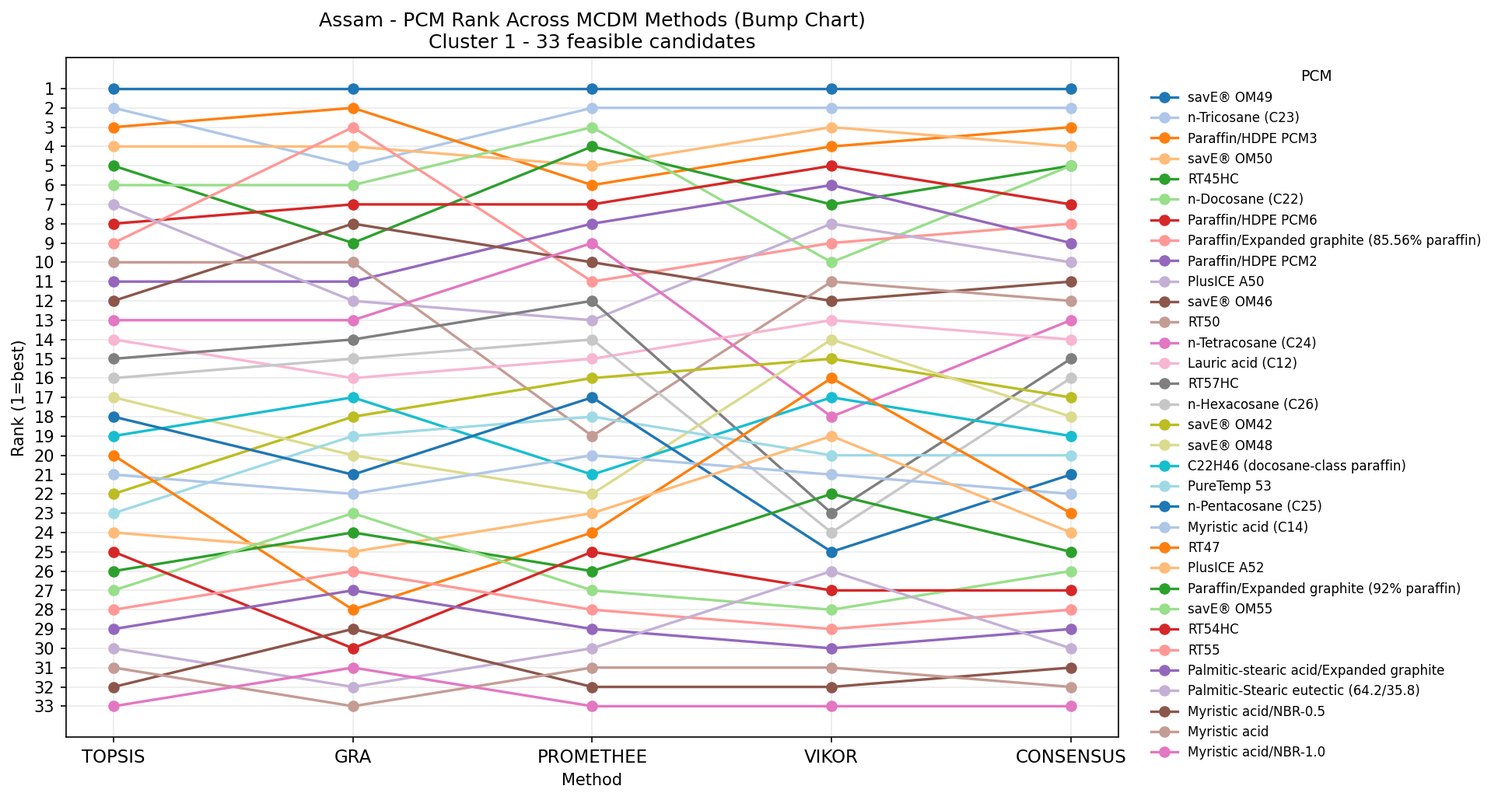
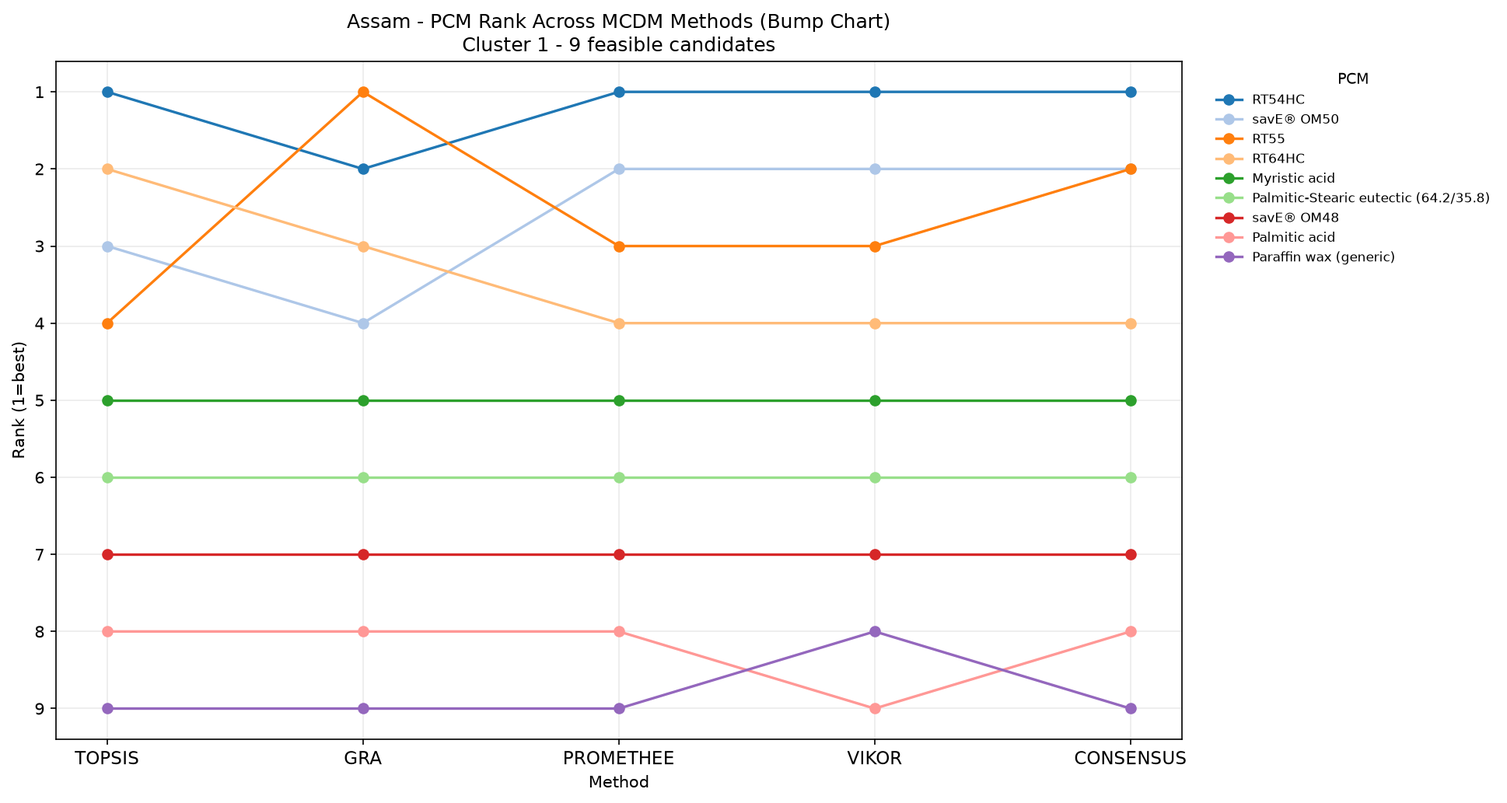
chore(plots): update Assam Cluster 1 MCDM bump chart from latest run

diff --git a/public/plots/assam/07_bump_chart_ranks_cluster_1.html b/public/plots/assam/07_bump_chart_ranks_cluster_1.html
@@ -6,6 +6,6 @@
 </head>
 <body>
     <div style="height:550px; width:100%;">                        <script>window.PlotlyConfig = {MathJaxConfig: 'local'};</script>
-        <script charset="utf-8" src="https://cdn.plot.ly/plotly-4.1.1.min.js" integrity="sha256-O24V1F27f8pb0glCkelh3cVHLNiHAJ5gCaVtq2aNch8=" crossorigin="anonymous"></script>                <div id="e0a0b864-5300-42bf-b452-9a20157ea065" class="plotly-graph-div" style="height:100%; width:100%;"></div>            <script>                window.PLOTLYENV=window.PLOTLYENV || {};                                if (document.getElementById("e0a0b864-5300-42bf-b452-9a20157ea065")) {                    Plotly.newPlot(                        "e0a0b864-5300-42bf-b452-9a20157ea065",                        [{"hovertemplate":"Name=savE® OM49\u003cbr\u003eMethod=%{x}\u003cbr\u003eRank=%{y}\u003cextra\u003e\u003c\u002fextra\u003e","legendgroup":"savE® OM49","line":{"color":"#FD3216","dash":"solid"},"marker":{"symbol":"circle"},"mode":"lines+markers","name":"savE® OM49","orientation":"v","showlegend":true,"x":["TOPSIS","GRA","PROMETHEE","VIKOR","CONSENSUS"],"xaxis":"x","y":{"dtype":"i1","bdata":"AQEBAQE="},"yaxis":"y","type":"scatter"},{"hovertemplate":"Name=n-Tricosane (C23)\u003cbr\u003eMethod=%{x}\u003cbr\u003eRank=%{y}\u003cextra\u003e\u003c\u002fextra\u003e","legendgroup":"n-Tricosane (C23)","line":{"color":"#00FE35","dash":"solid"},"marker":{"symbol":"circle"},"mode":"lines+markers","name":"n-Tricosane (C23)","orientation":"v","showlegend":true,"x":["TOPSIS","GRA","PROMETHEE","VIKOR","CONSENSUS"],"xaxis":"x","y":{"dtype":"i1","bdata":"AgUCAgI="},"yaxis":"y","type":"scatter"},{"hovertemplate":"Name=Paraffin\u002fHDPE PCM3\u003cbr\u003eMethod=%{x}\u003cbr\u003eRank=%{y}\u003cextra\u003e\u003c\u002fextra\u003e","legendgroup":"Paraffin\u002fHDPE PCM3","line":{"color":"#6A76FC","dash":"solid"},"marker":{"symbol":"circle"},"mode":"lines+markers","name":"Paraffin\u002fHDPE PCM3","orientation":"v","showlegend":true,"x":["TOPSIS","GRA","PROMETHEE","VIKOR","CONSENSUS"],"xaxis":"x","y":{"dtype":"i1","bdata":"AwIGBAM="},"yaxis":"y","type":"scatter"},{"hovertemplate":"Name=savE® OM50\u003cbr\u003eMethod=%{x}\u003cbr\u003eRank=%{y}\u003cextra\u003e\u003c\u002fextra\u003e","legendgroup":"savE® OM50","line":{"color":"#FED4C4","dash":"solid"},"marker":{"symbol":"circle"},"mode":"lines+markers","name":"savE® OM50","orientation":"v","showlegend":true,"x":["TOPSIS","GRA","PROMETHEE","VIKOR","CONSENSUS"],"xaxis":"x","y":{"dtype":"i1","bdata":"BAQFAwQ="},"yaxis":"y","type":"scatter"},{"hovertemplate":"Name=RT45HC\u003cbr\u003eMethod=%{x}\u003cbr\u003eRank=%{y}\u003cextra\u003e\u003c\u002fextra\u003e","legendgroup":"RT45HC","line":{"color":"#FE00CE","dash":"solid"},"marker":{"symbol":"circle"},"mode":"lines+markers","name":"RT45HC","orientation":"v","showlegend":true,"x":["TOPSIS","GRA","PROMETHEE","VIKOR","CONSENSUS"],"xaxis":"x","y":{"dtype":"i1","bdata":"BQkEBwU="},"yaxis":"y","type":"scatter"},{"hovertemplate":"Name=n-Docosane (C22)\u003cbr\u003eMethod=%{x}\u003cbr\u003eRank=%{y}\u003cextra\u003e\u003c\u002fextra\u003e","legendgroup":"n-Docosane (C22)","line":{"color":"#0DF9FF","dash":"solid"},"marker":{"symbol":"circle"},"mode":"lines+markers","name":"n-Docosane (C22)","orientation":"v","showlegend":true,"x":["TOPSIS","GRA","PROMETHEE","VIKOR","CONSENSUS"],"xaxis":"x","y":{"dtype":"i1","bdata":"BgYDCgU="},"yaxis":"y","type":"scatter"},{"hovertemplate":"Name=Paraffin\u002fHDPE PCM6\u003cbr\u003eMethod=%{x}\u003cbr\u003eRank=%{y}\u003cextra\u003e\u003c\u002fextra\u003e","legendgroup":"Paraffin\u002fHDPE PCM6","line":{"color":"#F6F926","dash":"solid"},"marker":{"symbol":"circle"},"mode":"lines+markers","name":"Paraffin\u002fHDPE PCM6","orientation":"v","showlegend":true,"x":["TOPSIS","GRA","PROMETHEE","VIKOR","CONSENSUS"],"xaxis":"x","y":{"dtype":"i1","bdata":"CAcHBQc="},"yaxis":"y","type":"scatter"},{"hovertemplate":"Name=Paraffin\u002fExpanded graphite (85.56% paraffin)\u003cbr\u003eMethod=%{x}\u003cbr\u003eRank=%{y}\u003cextra\u003e\u003c\u002fextra\u003e","legendgroup":"Paraffin\u002fExpanded graphite (85.56% paraffin)","line":{"color":"#FF9616","dash":"solid"},"marker":{"symbol":"circle"},"mode":"lines+markers","name":"Paraffin\u002fExpanded graphite (85.56% paraffin)","orientation":"v","showlegend":true,"x":["TOPSIS","GRA","PROMETHEE","VIKOR","CONSENSUS"],"xaxis":"x","y":{"dtype":"i1","bdata":"CQMLCQg="},"yaxis":"y","type":"scatter"},{"hovertemplate":"Name=Paraffin\u002fHDPE PCM2\u003cbr\u003eMethod=%{x}\u003cbr\u003eRank=%{y}\u003cextra\u003e\u003c\u002fextra\u003e","legendgroup":"Paraffin\u002fHDPE PCM2","line":{"color":"#479B55","dash":"solid"},"marker":{"symbol":"circle"},"mode":"lines+markers","name":"Paraffin\u002fHDPE PCM2","orientation":"v","showlegend":true,"x":["TOPSIS","GRA","PROMETHEE","VIKOR","CONSENSUS"],"xaxis":"x","y":{"dtype":"i1","bdata":"CwsIBgk="},"yaxis":"y","type":"scatter"},{"hovertemplate":"Name=PlusICE A50\u003cbr\u003eMethod=%{x}\u003cbr\u003eRank=%{y}\u003cextra\u003e\u003c\u002fextra\u003e","legendgroup":"PlusICE A50","line":{"color":"#EEA6FB","dash":"solid"},"marker":{"symbol":"circle"},"mode":"lines+markers","name":"PlusICE A50","orientation":"v","showlegend":true,"x":["TOPSIS","GRA","PROMETHEE","VIKOR","CONSENSUS"],"xaxis":"x","y":{"dtype":"i1","bdata":"BwwNCAo="},"yaxis":"y","type":"scatter"},{"hovertemplate":"Name=savE® OM46\u003cbr\u003eMethod=%{x}\u003cbr\u003eRank=%{y}\u003cextra\u003e\u003c\u002fextra\u003e","legendgroup":"savE® OM46","line":{"color":"#DC587D","dash":"solid"},"marker":{"symbol":"circle"},"mode":"lines+markers","name":"savE® OM46","orientation":"v","showlegend":true,"x":["TOPSIS","GRA","PROMETHEE","VIKOR","CONSENSUS"],"xaxis":"x","y":{"dtype":"i1","bdata":"DAgKDAs="},"yaxis":"y","type":"scatter"},{"hovertemplate":"Name=RT50\u003cbr\u003eMethod=%{x}\u003cbr\u003eRank=%{y}\u003cextra\u003e\u003c\u002fextra\u003e","legendgroup":"RT50","line":{"color":"#D626FF","dash":"solid"},"marker":{"symbol":"circle"},"mode":"lines+markers","name":"RT50","orientation":"v","showlegend":true,"x":["TOPSIS","GRA","PROMETHEE","VIKOR","CONSENSUS"],"xaxis":"x","y":{"dtype":"i1","bdata":"CgoTCww="},"yaxis":"y","type":"scatter"},{"hovertemplate":"Name=n-Tetracosane (C24)\u003cbr\u003eMethod=%{x}\u003cbr\u003eRank=%{y}\u003cextra\u003e\u003c\u002fextra\u003e","legendgroup":"n-Tetracosane (C24)","line":{"color":"#6E899C","dash":"solid"},"marker":{"symbol":"circle"},"mode":"lines+markers","name":"n-Tetracosane (C24)","orientation":"v","showlegend":true,"x":["TOPSIS","GRA","PROMETHEE","VIKOR","CONSENSUS"],"xaxis":"x","y":{"dtype":"i1","bdata":"DQ0JEg0="},"yaxis":"y","type":"scatter"},{"hovertemplate":"Name=Lauric acid (C12)\u003cbr\u003eMethod=%{x}\u003cbr\u003eRank=%{y}\u003cextra\u003e\u003c\u002fextra\u003e","legendgroup":"Lauric acid (C12)","line":{"color":"#00B5F7","dash":"solid"},"marker":{"symbol":"circle"},"mode":"lines+markers","name":"Lauric acid (C12)","orientation":"v","showlegend":true,"x":["TOPSIS","GRA","PROMETHEE","VIKOR","CONSENSUS"],"xaxis":"x","y":{"dtype":"i1","bdata":"DhAPDQ4="},"yaxis":"y","type":"scatter"},{"hovertemplate":"Name=RT57HC\u003cbr\u003eMethod=%{x}\u003cbr\u003eRank=%{y}\u003cextra\u003e\u003c\u002fextra\u003e","legendgroup":"RT57HC","line":{"color":"#B68E00","dash":"solid"},"marker":{"symbol":"circle"},"mode":"lines+markers","name":"RT57HC","orientation":"v","showlegend":true,"x":["TOPSIS","GRA","PROMETHEE","VIKOR","CONSENSUS"],"xaxis":"x","y":{"dtype":"i1","bdata":"Dw4MFw8="},"yaxis":"y","type":"scatter"},{"hovertemplate":"Name=n-Hexacosane (C26)\u003cbr\u003eMethod=%{x}\u003cbr\u003eRank=%{y}\u003cextra\u003e\u003c\u002fextra\u003e","legendgroup":"n-Hexacosane (C26)","line":{"color":"#C9FBE5","dash":"solid"},"marker":{"symbol":"circle"},"mode":"lines+markers","name":"n-Hexacosane (C26)","orientation":"v","showlegend":true,"x":["TOPSIS","GRA","PROMETHEE","VIKOR","CONSENSUS"],"xaxis":"x","y":{"dtype":"i1","bdata":"EA8OGBA="},"yaxis":"y","type":"scatter"},{"hovertemplate":"Name=savE® OM42\u003cbr\u003eMethod=%{x}\u003cbr\u003eRank=%{y}\u003cextra\u003e\u003c\u002fextra\u003e","legendgroup":"savE® OM42","line":{"color":"#FF0092","dash":"solid"},"marker":{"symbol":"circle"},"mode":"lines+markers","name":"savE® OM42","orientation":"v","showlegend":true,"x":["TOPSIS","GRA","PROMETHEE","VIKOR","CONSENSUS"],"xaxis":"x","y":{"dtype":"i1","bdata":"FhIQDxE="},"yaxis":"y","type":"scatter"},{"hovertemplate":"Name=savE® OM48\u003cbr\u003eMethod=%{x}\u003cbr\u003eRank=%{y}\u003cextra\u003e\u003c\u002fextra\u003e","legendgroup":"savE® OM48","line":{"color":"#22FFA7","dash":"solid"},"marker":{"symbol":"circle"},"mode":"lines+markers","name":"savE® OM48","orientation":"v","showlegend":true,"x":["TOPSIS","GRA","PROMETHEE","VIKOR","CONSENSUS"],"xaxis":"x","y":{"dtype":"i1","bdata":"ERQWDhI="},"yaxis":"y","type":"scatter"},{"hovertemplate":"Name=C22H46 (docosane-class paraffin)\u003cbr\u003eMethod=%{x}\u003cbr\u003eRank=%{y}\u003cextra\u003e\u003c\u002fextra\u003e","legendgroup":"C22H46 (docosane-class paraffin)","line":{"color":"#E3EE9E","dash":"solid"},"marker":{"symbol":"circle"},"mode":"lines+markers","name":"C22H46 (docosane-class paraffin)","orientation":"v","showlegend":true,"x":["TOPSIS","GRA","PROMETHEE","VIKOR","CONSENSUS"],"xaxis":"x","y":{"dtype":"i1","bdata":"ExEVERM="},"yaxis":"y","type":"scatter"},{"hovertemplate":"Name=PureTemp 53\u003cbr\u003eMethod=%{x}\u003cbr\u003eRank=%{y}\u003cextra\u003e\u003c\u002fextra\u003e","legendgroup":"PureTemp 53","line":{"color":"#86CE00","dash":"solid"},"marker":{"symbol":"circle"},"mode":"lines+markers","name":"PureTemp 53","orientation":"v","showlegend":true,"x":["TOPSIS","GRA","PROMETHEE","VIKOR","CONSENSUS"],"xaxis":"x","y":{"dtype":"i1","bdata":"FxMSFBQ="},"yaxis":"y","type":"scatter"},{"hovertemplate":"Name=n-Pentacosane (C25)\u003cbr\u003eMethod=%{x}\u003cbr\u003eRank=%{y}\u003cextra\u003e\u003c\u002fextra\u003e","legendgroup":"n-Pentacosane (C25)","line":{"color":"#BC7196","dash":"solid"},"marker":{"symbol":"circle"},"mode":"lines+markers","name":"n-Pentacosane (C25)","orientation":"v","showlegend":true,"x":["TOPSIS","GRA","PROMETHEE","VIKOR","CONSENSUS"],"xaxis":"x","y":{"dtype":"i1","bdata":"EhURGRU="},"yaxis":"y","type":"scatter"},{"hovertemplate":"Name=Myristic acid (C14)\u003cbr\u003eMethod=%{x}\u003cbr\u003eRank=%{y}\u003cextra\u003e\u003c\u002fextra\u003e","legendgroup":"Myristic acid (C14)","line":{"color":"#7E7DCD","dash":"solid"},"marker":{"symbol":"circle"},"mode":"lines+markers","name":"Myristic acid (C14)","orientation":"v","showlegend":true,"x":["TOPSIS","GRA","PROMETHEE","VIKOR","CONSENSUS"],"xaxis":"x","y":{"dtype":"i1","bdata":"FRYUFRY="},"yaxis":"y","type":"scatter"},{"hovertemplate":"Name=RT47\u003cbr\u003eMethod=%{x}\u003cbr\u003eRank=%{y}\u003cextra\u003e\u003c\u002fextra\u003e","legendgroup":"RT47","line":{"color":"#FC6955","dash":"solid"},"marker":{"symbol":"circle"},"mode":"lines+markers","name":"RT47","orientation":"v","showlegend":true,"x":["TOPSIS","GRA","PROMETHEE","VIKOR","CONSENSUS"],"xaxis":"x","y":{"dtype":"i1","bdata":"FBwYEBc="},"yaxis":"y","type":"scatter"},{"hovertemplate":"Name=PlusICE A52\u003cbr\u003eMethod=%{x}\u003cbr\u003eRank=%{y}\u003cextra\u003e\u003c\u002fextra\u003e","legendgroup":"PlusICE A52","line":{"color":"#E48F72","dash":"solid"},"marker":{"symbol":"circle"},"mode":"lines+markers","name":"PlusICE A52","orientation":"v","showlegend":true,"x":["TOPSIS","GRA","PROMETHEE","VIKOR","CONSENSUS"],"xaxis":"x","y":{"dtype":"i1","bdata":"GBkXExg="},"yaxis":"y","type":"scatter"},{"hovertemplate":"Name=Paraffin\u002fExpanded graphite (92% paraffin)\u003cbr\u003eMethod=%{x}\u003cbr\u003eRank=%{y}\u003cextra\u003e\u003c\u002fextra\u003e","legendgroup":"Paraffin\u002fExpanded graphite (92% paraffin)","line":{"color":"#FD3216","dash":"solid"},"marker":{"symbol":"circle"},"mode":"lines+markers","name":"Paraffin\u002fExpanded graphite (92% paraffin)","orientation":"v","showlegend":true,"x":["TOPSIS","GRA","PROMETHEE","VIKOR","CONSENSUS"],"xaxis":"x","y":{"dtype":"i1","bdata":"GhgaFhk="},"yaxis":"y","type":"scatter"},{"hovertemplate":"Name=savE® OM55\u003cbr\u003eMethod=%{x}\u003cbr\u003eRank=%{y}\u003cextra\u003e\u003c\u002fextra\u003e","legendgroup":"savE® OM55","line":{"color":"#00FE35","dash":"solid"},"marker":{"symbol":"circle"},"mode":"lines+markers","name":"savE® OM55","orientation":"v","showlegend":true,"x":["TOPSIS","GRA","PROMETHEE","VIKOR","CONSENSUS"],"xaxis":"x","y":{"dtype":"i1","bdata":"GxcbHBo="},"yaxis":"y","type":"scatter"},{"hovertemplate":"Name=RT54HC\u003cbr\u003eMethod=%{x}\u003cbr\u003eRank=%{y}\u003cextra\u003e\u003c\u002fextra\u003e","legendgroup":"RT54HC","line":{"color":"#6A76FC","dash":"solid"},"marker":{"symbol":"circle"},"mode":"lines+markers","name":"RT54HC","orientation":"v","showlegend":true,"x":["TOPSIS","GRA","PROMETHEE","VIKOR","CONSENSUS"],"xaxis":"x","y":{"dtype":"i1","bdata":"GR4ZGxs="},"yaxis":"y","type":"scatter"},{"hovertemplate":"Name=RT55\u003cbr\u003eMethod=%{x}\u003cbr\u003eRank=%{y}\u003cextra\u003e\u003c\u002fextra\u003e","legendgroup":"RT55","line":{"color":"#FED4C4","dash":"solid"},"marker":{"symbol":"circle"},"mode":"lines+markers","name":"RT55","orientation":"v","showlegend":true,"x":["TOPSIS","GRA","PROMETHEE","VIKOR","CONSENSUS"],"xaxis":"x","y":{"dtype":"i1","bdata":"HBocHRw="},"yaxis":"y","type":"scatter"},{"hovertemplate":"Name=Palmitic-stearic acid\u002fExpanded graphite\u003cbr\u003eMethod=%{x}\u003cbr\u003eRank=%{y}\u003cextra\u003e\u003c\u002fextra\u003e","legendgroup":"Palmitic-stearic acid\u002fExpanded graphite","line":{"color":"#FE00CE","dash":"solid"},"marker":{"symbol":"circle"},"mode":"lines+markers","name":"Palmitic-stearic acid\u002fExpanded graphite","orientation":"v","showlegend":true,"x":["TOPSIS","GRA","PROMETHEE","VIKOR","CONSENSUS"],"xaxis":"x","y":{"dtype":"i1","bdata":"HRsdHh0="},"yaxis":"y","type":"scatter"},{"hovertemplate":"Name=Palmitic-Stearic eutectic (64.2\u002f35.8)\u003cbr\u003eMethod=%{x}\u003cbr\u003eRank=%{y}\u003cextra\u003e\u003c\u002fextra\u003e","legendgroup":"Palmitic-Stearic eutectic (64.2\u002f35.8)","line":{"color":"#0DF9FF","dash":"solid"},"marker":{"symbol":"circle"},"mode":"lines+markers","name":"Palmitic-Stearic eutectic (64.2\u002f35.8)","orientation":"v","showlegend":true,"x":["TOPSIS","GRA","PROMETHEE","VIKOR","CONSENSUS"],"xaxis":"x","y":{"dtype":"i1","bdata":"HiAeGh4="},"yaxis":"y","type":"scatter"},{"hovertemplate":"Name=Myristic acid\u002fNBR-0.5\u003cbr\u003eMethod=%{x}\u003cbr\u003eRank=%{y}\u003cextra\u003e\u003c\u002fextra\u003e","legendgroup":"Myristic acid\u002fNBR-0.5","line":{"color":"#F6F926","dash":"solid"},"marker":{"symbol":"circle"},"mode":"lines+markers","name":"Myristic acid\u002fNBR-0.5","orientation":"v","showlegend":true,"x":["TOPSIS","GRA","PROMETHEE","VIKOR","CONSENSUS"],"xaxis":"x","y":{"dtype":"i1","bdata":"IB0gIB8="},"yaxis":"y","type":"scatter"},{"hovertemplate":"Name=Myristic acid\u003cbr\u003eMethod=%{x}\u003cbr\u003eRank=%{y}\u003cextra\u003e\u003c\u002fextra\u003e","legendgroup":"Myristic acid","line":{"color":"#FF9616","dash":"solid"},"marker":{"symbol":"circle"},"mode":"lines+markers","name":"Myristic acid","orientation":"v","showlegend":true,"x":["TOPSIS","GRA","PROMETHEE","VIKOR","CONSENSUS"],"xaxis":"x","y":{"dtype":"i1","bdata":"HyEfHyA="},"yaxis":"y","type":"scatter"},{"hovertemplate":"Name=Myristic acid\u002fNBR-1.0\u003cbr\u003eMethod=%{x}\u003cbr\u003eRank=%{y}\u003cextra\u003e\u003c\u002fextra\u003e","legendgroup":"Myristic acid\u002fNBR-1.0","line":{"color":"#479B55","dash":"solid"},"marker":{"symbol":"circle"},"mode":"lines+markers","name":"Myristic acid\u002fNBR-1.0","orientation":"v","showlegend":true,"x":["TOPSIS","GRA","PROMETHEE","VIKOR","CONSENSUS"],"xaxis":"x","y":{"dtype":"i1","bdata":"IR8hISE="},"yaxis":"y","type":"scatter"}],                        {"template":{"data":{"barpolar":[{"marker":{"line":{"color":"white","width":0.5},"pattern":{"fillmode":"overlay","size":10,"solidity":0.2}},"type":"barpolar"}],"bar":[{"error_x":{"color":"#2a3f5f"},"error_y":{"color":"#2a3f5f"},"marker":{"line":{"color":"white","width":0.5},"pattern":{"fillmode":"overlay","size":10,"solidity":0.2}},"type":"bar"}],"carpet":[{"aaxis":{"endlinecolor":"#2a3f5f","gridcolor":"#C8D4E3","linecolor":"#C8D4E3","minorgridcolor":"#C8D4E3","startlinecolor":"#2a3f5f"},"baxis":{"endlinecolor":"#2a3f5f","gridcolor":"#C8D4E3","linecolor":"#C8D4E3","minorgridcolor":"#C8D4E3","startlinecolor":"#2a3f5f"},"type":"carpet"}],"choropleth":[{"colorbar":{"outlinewidth":0,"ticks":""},"type":"choropleth"}],"contourcarpet":[{"colorbar":{"outlinewidth":0,"ticks":""},"type":"contourcarpet"}],"contour":[{"colorbar":{"outlinewidth":0,"ticks":""},"colorscale":[[0.0,"#0d0887"],[0.1111111111111111,"#46039f"],[0.2222222222222222,"#7201a8"],[0.3333333333333333,"#9c179e"],[0.4444444444444444,"#bd3786"],[0.5555555555555556,"#d8576b"],[0.6666666666666666,"#ed7953"],[0.7777777777777778,"#fb9f3a"],[0.8888888888888888,"#fdca26"],[1.0,"#f0f921"]],"type":"contour"}],"heatmap":[{"colorbar":{"outlinewidth":0,"ticks":""},"colorscale":[[0.0,"#0d0887"],[0.1111111111111111,"#46039f"],[0.2222222222222222,"#7201a8"],[0.3333333333333333,"#9c179e"],[0.4444444444444444,"#bd3786"],[0.5555555555555556,"#d8576b"],[0.6666666666666666,"#ed7953"],[0.7777777777777778,"#fb9f3a"],[0.8888888888888888,"#fdca26"],[1.0,"#f0f921"]],"type":"heatmap"}],"histogram2dcontour":[{"colorbar":{"outlinewidth":0,"ticks":""},"colorscale":[[0.0,"#0d0887"],[0.1111111111111111,"#46039f"],[0.2222222222222222,"#7201a8"],[0.3333333333333333,"#9c179e"],[0.4444444444444444,"#bd3786"],[0.5555555555555556,"#d8576b"],[0.6666666666666666,"#ed7953"],[0.7777777777777778,"#fb9f3a"],[0.8888888888888888,"#fdca26"],[1.0,"#f0f921"]],"type":"histogram2dcontour"}],"histogram2d":[{"colorbar":{"outlinewidth":0,"ticks":""},"colorscale":[[0.0,"#0d0887"],[0.1111111111111111,"#46039f"],[0.2222222222222222,"#7201a8"],[0.3333333333333333,"#9c179e"],[0.4444444444444444,"#bd3786"],[0.5555555555555556,"#d8576b"],[0.6666666666666666,"#ed7953"],[0.7777777777777778,"#fb9f3a"],[0.8888888888888888,"#fdca26"],[1.0,"#f0f921"]],"type":"histogram2d"}],"histogram":[{"marker":{"pattern":{"fillmode":"overlay","size":10,"solidity":0.2}},"type":"histogram"}],"mesh3d":[{"colorbar":{"outlinewidth":0,"ticks":""},"type":"mesh3d"}],"parcoords":[{"line":{"colorbar":{"outlinewidth":0,"ticks":""}},"type":"parcoords"}],"pie":[{"automargin":true,"type":"pie"}],"scatter3d":[{"line":{"colorbar":{"outlinewidth":0,"ticks":""}},"marker":{"colorbar":{"outlinewidth":0,"ticks":""}},"type":"scatter3d"}],"scattercarpet":[{"marker":{"colorbar":{"outlinewidth":0,"ticks":""}},"type":"scattercarpet"}],"scattergeo":[{"marker":{"colorbar":{"outlinewidth":0,"ticks":""}},"type":"scattergeo"}],"scattergl":[{"marker":{"colorbar":{"outlinewidth":0,"ticks":""}},"type":"scattergl"}],"scattermap":[{"marker":{"colorbar":{"outlinewidth":0,"ticks":""}},"type":"scattermap"}],"scatterpolargl":[{"marker":{"colorbar":{"outlinewidth":0,"ticks":""}},"type":"scatterpolargl"}],"scatterpolar":[{"marker":{"colorbar":{"outlinewidth":0,"ticks":""}},"type":"scatterpolar"}],"scatter":[{"fillpattern":{"fillmode":"overlay","size":10,"solidity":0.2},"type":"scatter"}],"scatterternary":[{"marker":{"colorbar":{"outlinewidth":0,"ticks":""}},"type":"scatterternary"}],"surface":[{"colorbar":{"outlinewidth":0,"ticks":""},"colorscale":[[0.0,"#0d0887"],[0.1111111111111111,"#46039f"],[0.2222222222222222,"#7201a8"],[0.3333333333333333,"#9c179e"],[0.4444444444444444,"#bd3786"],[0.5555555555555556,"#d8576b"],[0.6666666666666666,"#ed7953"],[0.7777777777777778,"#fb9f3a"],[0.8888888888888888,"#fdca26"],[1.0,"#f0f921"]],"type":"surface"}],"table":[{"cells":{"fill":{"color":"#EBF0F8"},"line":{"color":"white"}},"header":{"fill":{"color":"#C8D4E3"},"line":{"color":"white"}},"type":"table"}]},"layout":{"annotationdefaults":{"arrowcolor":"#2a3f5f","arrowhead":0,"arrowwidth":1},"autotypenumbers":"strict","coloraxis":{"colorbar":{"outlinewidth":0,"ticks":""}},"colorscale":{"diverging":[[0,"#8e0152"],[0.1,"#c51b7d"],[0.2,"#de77ae"],[0.3,"#f1b6da"],[0.4,"#fde0ef"],[0.5,"#f7f7f7"],[0.6,"#e6f5d0"],[0.7,"#b8e186"],[0.8,"#7fbc41"],[0.9,"#4d9221"],[1,"#276419"]],"sequential":[[0.0,"#0d0887"],[0.1111111111111111,"#46039f"],[0.2222222222222222,"#7201a8"],[0.3333333333333333,"#9c179e"],[0.4444444444444444,"#bd3786"],[0.5555555555555556,"#d8576b"],[0.6666666666666666,"#ed7953"],[0.7777777777777778,"#fb9f3a"],[0.8888888888888888,"#fdca26"],[1.0,"#f0f921"]],"sequentialminus":[[0.0,"#0d0887"],[0.1111111111111111,"#46039f"],[0.2222222222222222,"#7201a8"],[0.3333333333333333,"#9c179e"],[0.4444444444444444,"#bd3786"],[0.5555555555555556,"#d8576b"],[0.6666666666666666,"#ed7953"],[0.7777777777777778,"#fb9f3a"],[0.8888888888888888,"#fdca26"],[1.0,"#f0f921"]]},"colorway":["#636efa","#EF553B","#00cc96","#ab63fa","#FFA15A","#19d3f3","#FF6692","#B6E880","#FF97FF","#FECB52"],"font":{"color":"#2a3f5f"},"geo":{"bgcolor":"white","lakecolor":"white","landcolor":"white","showlakes":true,"showland":true,"subunitcolor":"#C8D4E3"},"hoverlabel":{"align":"left"},"hovermode":"closest","paper_bgcolor":"white","plot_bgcolor":"white","polar":{"angularaxis":{"gridcolor":"#EBF0F8","linecolor":"#EBF0F8","ticks":""},"bgcolor":"white","radialaxis":{"gridcolor":"#EBF0F8","linecolor":"#EBF0F8","ticks":""}},"scene":{"xaxis":{"backgroundcolor":"white","gridcolor":"#DFE8F3","gridwidth":2,"linecolor":"#EBF0F8","showbackground":true,"ticks":"","zerolinecolor":"#EBF0F8"},"yaxis":{"backgroundcolor":"white","gridcolor":"#DFE8F3","gridwidth":2,"linecolor":"#EBF0F8","showbackground":true,"ticks":"","zerolinecolor":"#EBF0F8"},"zaxis":{"backgroundcolor":"white","gridcolor":"#DFE8F3","gridwidth":2,"linecolor":"#EBF0F8","showbackground":true,"ticks":"","zerolinecolor":"#EBF0F8"}},"shapedefaults":{"line":{"color":"#2a3f5f"}},"ternary":{"aaxis":{"gridcolor":"#DFE8F3","linecolor":"#A2B1C6","ticks":""},"baxis":{"gridcolor":"#DFE8F3","linecolor":"#A2B1C6","ticks":""},"bgcolor":"white","caxis":{"gridcolor":"#DFE8F3","linecolor":"#A2B1C6","ticks":""}},"title":{"x":0.05},"xaxis":{"automargin":true,"gridcolor":"#EBF0F8","linecolor":"#EBF0F8","ticks":"","title":{"standoff":15},"zerolinecolor":"#EBF0F8","zerolinewidth":2},"yaxis":{"automargin":true,"gridcolor":"#EBF0F8","linecolor":"#EBF0F8","ticks":"","title":{"standoff":15},"zerolinecolor":"#EBF0F8","zerolinewidth":2}}},"xaxis":{"anchor":"y","domain":[0.0,1.0],"title":{"text":"Method"}},"yaxis":{"anchor":"x","domain":[0.0,1.0],"title":{"text":"Rank (1=best)"},"autorange":"reversed"},"legend":{"title":{"text":"PCM"},"tracegroupgap":0},"title":{"text":"Assam PCM - Rank Across MCDM Methods, Cluster 1 (33 candidates)"},"height":550},                        {"responsive": true}                    )                };            </script>        </div>
+        <script charset="utf-8" src="https://cdn.plot.ly/plotly-4.0.0.min.js" integrity="sha256-FEYfO0yRyLtZCpnW0Dw/0DHKQO7Afrq3ml4+rBB818o=" crossorigin="anonymous"></script>                <div id="fd70cfcf-2442-4561-bbe1-f32c605e7287" class="plotly-graph-div" style="height:100%; width:100%;"></div>            <script>                window.PLOTLYENV=window.PLOTLYENV || {};                                if (document.getElementById("fd70cfcf-2442-4561-bbe1-f32c605e7287")) {                    Plotly.newPlot(                        "fd70cfcf-2442-4561-bbe1-f32c605e7287",                        [{"hovertemplate":"Name=RT54HC\u003cbr\u003eMethod=%{x}\u003cbr\u003eRank=%{y}\u003cextra\u003e\u003c\u002fextra\u003e","legendgroup":"RT54HC","line":{"color":"#FD3216","dash":"solid"},"marker":{"symbol":"circle"},"mode":"lines+markers","name":"RT54HC","orientation":"v","showlegend":true,"x":["TOPSIS","GRA","PROMETHEE","VIKOR","CONSENSUS"],"xaxis":"x","y":{"dtype":"i1","bdata":"AQIBAQE="},"yaxis":"y","type":"scatter"},{"hovertemplate":"Name=savE® OM50\u003cbr\u003eMethod=%{x}\u003cbr\u003eRank=%{y}\u003cextra\u003e\u003c\u002fextra\u003e","legendgroup":"savE® OM50","line":{"color":"#00FE35","dash":"solid"},"marker":{"symbol":"circle"},"mode":"lines+markers","name":"savE® OM50","orientation":"v","showlegend":true,"x":["TOPSIS","GRA","PROMETHEE","VIKOR","CONSENSUS"],"xaxis":"x","y":{"dtype":"i1","bdata":"AwQCAgI="},"yaxis":"y","type":"scatter"},{"hovertemplate":"Name=RT55\u003cbr\u003eMethod=%{x}\u003cbr\u003eRank=%{y}\u003cextra\u003e\u003c\u002fextra\u003e","legendgroup":"RT55","line":{"color":"#6A76FC","dash":"solid"},"marker":{"symbol":"circle"},"mode":"lines+markers","name":"RT55","orientation":"v","showlegend":true,"x":["TOPSIS","GRA","PROMETHEE","VIKOR","CONSENSUS"],"xaxis":"x","y":{"dtype":"i1","bdata":"BAEDAwI="},"yaxis":"y","type":"scatter"},{"hovertemplate":"Name=RT64HC\u003cbr\u003eMethod=%{x}\u003cbr\u003eRank=%{y}\u003cextra\u003e\u003c\u002fextra\u003e","legendgroup":"RT64HC","line":{"color":"#FED4C4","dash":"solid"},"marker":{"symbol":"circle"},"mode":"lines+markers","name":"RT64HC","orientation":"v","showlegend":true,"x":["TOPSIS","GRA","PROMETHEE","VIKOR","CONSENSUS"],"xaxis":"x","y":{"dtype":"i1","bdata":"AgMEBAQ="},"yaxis":"y","type":"scatter"},{"hovertemplate":"Name=Myristic acid\u003cbr\u003eMethod=%{x}\u003cbr\u003eRank=%{y}\u003cextra\u003e\u003c\u002fextra\u003e","legendgroup":"Myristic acid","line":{"color":"#FE00CE","dash":"solid"},"marker":{"symbol":"circle"},"mode":"lines+markers","name":"Myristic acid","orientation":"v","showlegend":true,"x":["TOPSIS","GRA","PROMETHEE","VIKOR","CONSENSUS"],"xaxis":"x","y":{"dtype":"i1","bdata":"BQUFBQU="},"yaxis":"y","type":"scatter"},{"hovertemplate":"Name=Palmitic-Stearic eutectic (64.2\u002f35.8)\u003cbr\u003eMethod=%{x}\u003cbr\u003eRank=%{y}\u003cextra\u003e\u003c\u002fextra\u003e","legendgroup":"Palmitic-Stearic eutectic (64.2\u002f35.8)","line":{"color":"#0DF9FF","dash":"solid"},"marker":{"symbol":"circle"},"mode":"lines+markers","name":"Palmitic-Stearic eutectic (64.2\u002f35.8)","orientation":"v","showlegend":true,"x":["TOPSIS","GRA","PROMETHEE","VIKOR","CONSENSUS"],"xaxis":"x","y":{"dtype":"i1","bdata":"BgYGBgY="},"yaxis":"y","type":"scatter"},{"hovertemplate":"Name=savE® OM48\u003cbr\u003eMethod=%{x}\u003cbr\u003eRank=%{y}\u003cextra\u003e\u003c\u002fextra\u003e","legendgroup":"savE® OM48","line":{"color":"#F6F926","dash":"solid"},"marker":{"symbol":"circle"},"mode":"lines+markers","name":"savE® OM48","orientation":"v","showlegend":true,"x":["TOPSIS","GRA","PROMETHEE","VIKOR","CONSENSUS"],"xaxis":"x","y":{"dtype":"i1","bdata":"BwcHBwc="},"yaxis":"y","type":"scatter"},{"hovertemplate":"Name=Palmitic acid\u003cbr\u003eMethod=%{x}\u003cbr\u003eRank=%{y}\u003cextra\u003e\u003c\u002fextra\u003e","legendgroup":"Palmitic acid","line":{"color":"#FF9616","dash":"solid"},"marker":{"symbol":"circle"},"mode":"lines+markers","name":"Palmitic acid","orientation":"v","showlegend":true,"x":["TOPSIS","GRA","PROMETHEE","VIKOR","CONSENSUS"],"xaxis":"x","y":{"dtype":"i1","bdata":"CAgICQg="},"yaxis":"y","type":"scatter"},{"hovertemplate":"Name=Paraffin wax (generic)\u003cbr\u003eMethod=%{x}\u003cbr\u003eRank=%{y}\u003cextra\u003e\u003c\u002fextra\u003e","legendgroup":"Paraffin wax (generic)","line":{"color":"#479B55","dash":"solid"},"marker":{"symbol":"circle"},"mode":"lines+markers","name":"Paraffin wax (generic)","orientation":"v","showlegend":true,"x":["TOPSIS","GRA","PROMETHEE","VIKOR","CONSENSUS"],"xaxis":"x","y":{"dtype":"i1","bdata":"CQkJCAk="},"yaxis":"y","type":"scatter"}],                        {"template":{"data":{"barpolar":[{"marker":{"line":{"color":"white","width":0.5},"pattern":{"fillmode":"overlay","size":10,"solidity":0.2}},"type":"barpolar"}],"bar":[{"error_x":{"color":"#2a3f5f"},"error_y":{"color":"#2a3f5f"},"marker":{"line":{"color":"white","width":0.5},"pattern":{"fillmode":"overlay","size":10,"solidity":0.2}},"type":"bar"}],"carpet":[{"aaxis":{"endlinecolor":"#2a3f5f","gridcolor":"#C8D4E3","linecolor":"#C8D4E3","minorgridcolor":"#C8D4E3","startlinecolor":"#2a3f5f"},"baxis":{"endlinecolor":"#2a3f5f","gridcolor":"#C8D4E3","linecolor":"#C8D4E3","minorgridcolor":"#C8D4E3","startlinecolor":"#2a3f5f"},"type":"carpet"}],"choropleth":[{"colorbar":{"outlinewidth":0,"ticks":""},"type":"choropleth"}],"contourcarpet":[{"colorbar":{"outlinewidth":0,"ticks":""},"type":"contourcarpet"}],"contour":[{"colorbar":{"outlinewidth":0,"ticks":""},"colorscale":[[0.0,"#0d0887"],[0.1111111111111111,"#46039f"],[0.2222222222222222,"#7201a8"],[0.3333333333333333,"#9c179e"],[0.4444444444444444,"#bd3786"],[0.5555555555555556,"#d8576b"],[0.6666666666666666,"#ed7953"],[0.7777777777777778,"#fb9f3a"],[0.8888888888888888,"#fdca26"],[1.0,"#f0f921"]],"type":"contour"}],"heatmap":[{"colorbar":{"outlinewidth":0,"ticks":""},"colorscale":[[0.0,"#0d0887"],[0.1111111111111111,"#46039f"],[0.2222222222222222,"#7201a8"],[0.3333333333333333,"#9c179e"],[0.4444444444444444,"#bd3786"],[0.5555555555555556,"#d8576b"],[0.6666666666666666,"#ed7953"],[0.7777777777777778,"#fb9f3a"],[0.8888888888888888,"#fdca26"],[1.0,"#f0f921"]],"type":"heatmap"}],"histogram2dcontour":[{"colorbar":{"outlinewidth":0,"ticks":""},"colorscale":[[0.0,"#0d0887"],[0.1111111111111111,"#46039f"],[0.2222222222222222,"#7201a8"],[0.3333333333333333,"#9c179e"],[0.4444444444444444,"#bd3786"],[0.5555555555555556,"#d8576b"],[0.6666666666666666,"#ed7953"],[0.7777777777777778,"#fb9f3a"],[0.8888888888888888,"#fdca26"],[1.0,"#f0f921"]],"type":"histogram2dcontour"}],"histogram2d":[{"colorbar":{"outlinewidth":0,"ticks":""},"colorscale":[[0.0,"#0d0887"],[0.1111111111111111,"#46039f"],[0.2222222222222222,"#7201a8"],[0.3333333333333333,"#9c179e"],[0.4444444444444444,"#bd3786"],[0.5555555555555556,"#d8576b"],[0.6666666666666666,"#ed7953"],[0.7777777777777778,"#fb9f3a"],[0.8888888888888888,"#fdca26"],[1.0,"#f0f921"]],"type":"histogram2d"}],"histogram":[{"marker":{"pattern":{"fillmode":"overlay","size":10,"solidity":0.2}},"type":"histogram"}],"mesh3d":[{"colorbar":{"outlinewidth":0,"ticks":""},"type":"mesh3d"}],"parcoords":[{"line":{"colorbar":{"outlinewidth":0,"ticks":""}},"type":"parcoords"}],"pie":[{"automargin":true,"type":"pie"}],"scatter3d":[{"line":{"colorbar":{"outlinewidth":0,"ticks":""}},"marker":{"colorbar":{"outlinewidth":0,"ticks":""}},"type":"scatter3d"}],"scattercarpet":[{"marker":{"colorbar":{"outlinewidth":0,"ticks":""}},"type":"scattercarpet"}],"scattergeo":[{"marker":{"colorbar":{"outlinewidth":0,"ticks":""}},"type":"scattergeo"}],"scattergl":[{"marker":{"colorbar":{"outlinewidth":0,"ticks":""}},"type":"scattergl"}],"scattermap":[{"marker":{"colorbar":{"outlinewidth":0,"ticks":""}},"type":"scattermap"}],"scatterpolargl":[{"marker":{"colorbar":{"outlinewidth":0,"ticks":""}},"type":"scatterpolargl"}],"scatterpolar":[{"marker":{"colorbar":{"outlinewidth":0,"ticks":""}},"type":"scatterpolar"}],"scatter":[{"fillpattern":{"fillmode":"overlay","size":10,"solidity":0.2},"type":"scatter"}],"scatterternary":[{"marker":{"colorbar":{"outlinewidth":0,"ticks":""}},"type":"scatterternary"}],"surface":[{"colorbar":{"outlinewidth":0,"ticks":""},"colorscale":[[0.0,"#0d0887"],[0.1111111111111111,"#46039f"],[0.2222222222222222,"#7201a8"],[0.3333333333333333,"#9c179e"],[0.4444444444444444,"#bd3786"],[0.5555555555555556,"#d8576b"],[0.6666666666666666,"#ed7953"],[0.7777777777777778,"#fb9f3a"],[0.8888888888888888,"#fdca26"],[1.0,"#f0f921"]],"type":"surface"}],"table":[{"cells":{"fill":{"color":"#EBF0F8"},"line":{"color":"white"}},"header":{"fill":{"color":"#C8D4E3"},"line":{"color":"white"}},"type":"table"}]},"layout":{"annotationdefaults":{"arrowcolor":"#2a3f5f","arrowhead":0,"arrowwidth":1},"autotypenumbers":"strict","coloraxis":{"colorbar":{"outlinewidth":0,"ticks":""}},"colorscale":{"diverging":[[0,"#8e0152"],[0.1,"#c51b7d"],[0.2,"#de77ae"],[0.3,"#f1b6da"],[0.4,"#fde0ef"],[0.5,"#f7f7f7"],[0.6,"#e6f5d0"],[0.7,"#b8e186"],[0.8,"#7fbc41"],[0.9,"#4d9221"],[1,"#276419"]],"sequential":[[0.0,"#0d0887"],[0.1111111111111111,"#46039f"],[0.2222222222222222,"#7201a8"],[0.3333333333333333,"#9c179e"],[0.4444444444444444,"#bd3786"],[0.5555555555555556,"#d8576b"],[0.6666666666666666,"#ed7953"],[0.7777777777777778,"#fb9f3a"],[0.8888888888888888,"#fdca26"],[1.0,"#f0f921"]],"sequentialminus":[[0.0,"#0d0887"],[0.1111111111111111,"#46039f"],[0.2222222222222222,"#7201a8"],[0.3333333333333333,"#9c179e"],[0.4444444444444444,"#bd3786"],[0.5555555555555556,"#d8576b"],[0.6666666666666666,"#ed7953"],[0.7777777777777778,"#fb9f3a"],[0.8888888888888888,"#fdca26"],[1.0,"#f0f921"]]},"colorway":["#636efa","#EF553B","#00cc96","#ab63fa","#FFA15A","#19d3f3","#FF6692","#B6E880","#FF97FF","#FECB52"],"font":{"color":"#2a3f5f"},"geo":{"bgcolor":"white","lakecolor":"white","landcolor":"white","showlakes":true,"showland":true,"subunitcolor":"#C8D4E3"},"hoverlabel":{"align":"left"},"hovermode":"closest","paper_bgcolor":"white","plot_bgcolor":"white","polar":{"angularaxis":{"gridcolor":"#EBF0F8","linecolor":"#EBF0F8","ticks":""},"bgcolor":"white","radialaxis":{"gridcolor":"#EBF0F8","linecolor":"#EBF0F8","ticks":""}},"scene":{"xaxis":{"backgroundcolor":"white","gridcolor":"#DFE8F3","gridwidth":2,"linecolor":"#EBF0F8","showbackground":true,"ticks":"","zerolinecolor":"#EBF0F8"},"yaxis":{"backgroundcolor":"white","gridcolor":"#DFE8F3","gridwidth":2,"linecolor":"#EBF0F8","showbackground":true,"ticks":"","zerolinecolor":"#EBF0F8"},"zaxis":{"backgroundcolor":"white","gridcolor":"#DFE8F3","gridwidth":2,"linecolor":"#EBF0F8","showbackground":true,"ticks":"","zerolinecolor":"#EBF0F8"}},"shapedefaults":{"line":{"color":"#2a3f5f"}},"ternary":{"aaxis":{"gridcolor":"#DFE8F3","linecolor":"#A2B1C6","ticks":""},"baxis":{"gridcolor":"#DFE8F3","linecolor":"#A2B1C6","ticks":""},"bgcolor":"white","caxis":{"gridcolor":"#DFE8F3","linecolor":"#A2B1C6","ticks":""}},"title":{"x":0.05},"xaxis":{"automargin":true,"gridcolor":"#EBF0F8","linecolor":"#EBF0F8","ticks":"","title":{"standoff":15},"zerolinecolor":"#EBF0F8","zerolinewidth":2},"yaxis":{"automargin":true,"gridcolor":"#EBF0F8","linecolor":"#EBF0F8","ticks":"","title":{"standoff":15},"zerolinecolor":"#EBF0F8","zerolinewidth":2}}},"xaxis":{"anchor":"y","domain":[0.0,1.0],"title":{"text":"Method"}},"yaxis":{"anchor":"x","domain":[0.0,1.0],"title":{"text":"Rank (1=best)"},"autorange":"reversed"},"legend":{"title":{"text":"PCM"},"tracegroupgap":0},"title":{"text":"Assam PCM - Rank Across MCDM Methods, Cluster 1 (9 candidates)"},"height":550},                        {"responsive": true}                    )                };            </script>        </div>
 </body>
 </html>
